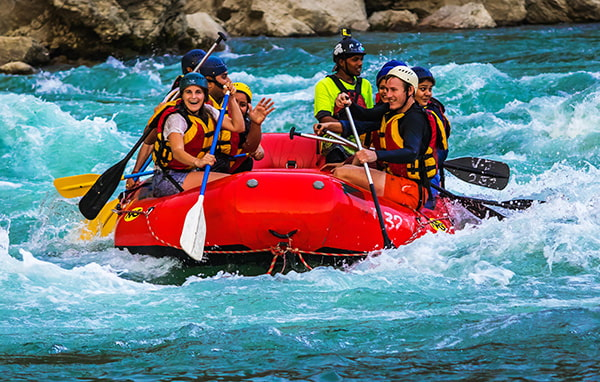
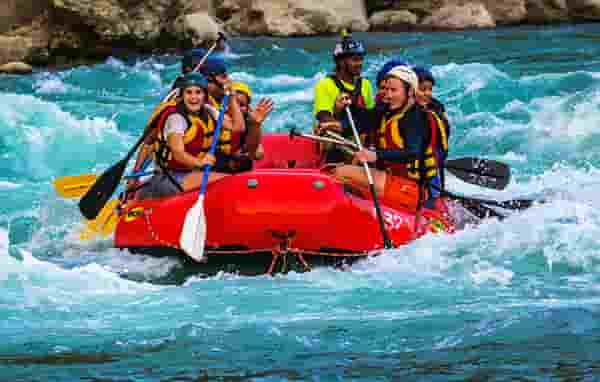
wwr rafting about us update

diff --git a/wwr/styles/rafting.css b/wwr/styles/rafting.css
@@ -39,14 +39,40 @@ article {
     padding: 8px;
 }
 
-/* Social Media Footer Links & Icons */
-.socialmedia a {
-    text-decoration: none;
+/* Header: CSS Grid Layout */
+header {
+    display: grid;
+    grid-template-columns: 150px 1fr;
+    align-items: center;
+    background-color: var(--primary-color);
+    padding: 12px 24px;
 }
 
-.socialmedia img {
-    width: 32px;
+header img {
+    width: 100px;
     height: auto;
+}
+
+/* Navigation: CSS Flex Layout */
+header nav {
+    display: flex;
+    justify-content: space-around;
+    align-items: center;
+    margin: 0;
+    padding: 0;
+}
+
+header nav a {
+    color: #ffffff;
+    text-decoration: none;
+    font-weight: bold;
+    padding: 8px 16px;
+    border-radius: 4px;
+}
+
+header nav a:hover {
+    background-color: var(--accent2-color);
+    color: var(--accent1-color);
 }
 
 /* Hero Section & Overlays */
@@ -66,7 +92,7 @@ article {
     width: 100%;
     padding: 16px;
     text-align: center;
-    opacity: 0.7;
+    opacity: 0.85;
     background-color: var(--accent1-color);
     color: #ffffff;
 }
@@ -78,11 +104,7 @@ article {
     right: 20px;
     background-color: var(--accent2-color);
     color: var(--accent1-color);
-    opacity: 0.9;
-}
-
-footer {
-    border-top: 3px solid var(--secondary-color);
+    opacity: 0.92;
 }
 
 .hero article img {
@@ -91,4 +113,95 @@ footer {
     margin-left: 16px;
     border: 2px solid var(--primary-color);
     box-shadow: 0 2px 6px rgba(0, 0, 0, 0.3);
+}
+
+/* History Section: 3-Column Wireframe Layout */
+.history h2 {
+    text-align: center;
+    margin-bottom: 16px;
+}
+
+.history-layout {
+    display: grid;
+    grid-template-columns: 1fr 220px 1fr;
+    gap: 16px;
+    align-items: center;
+}
+
+.history-layout p {
+    margin: 0;
+    padding: 0;
+}
+
+.history-layout img {
+    width: 100%;
+    height: auto;
+    border-radius: 4px;
+    border: 2px solid var(--primary-color);
+}
+
+/* Adventures Section: 5 Horizontal Figures */
+.adventures h2 {
+    text-align: center;
+    margin-bottom: 16px;
+}
+
+.adventure-grid {
+    display: grid;
+    grid-template-columns: repeat(5, 1fr);
+    gap: 12px;
+}
+
+.adventure-grid figure {
+    margin: 0;
+    text-align: center;
+}
+
+.adventure-grid img {
+    width: 100%;
+    height: 110px;
+    object-fit: cover;
+    border-radius: 4px;
+}
+
+.adventure-grid figcaption {
+    margin-top: 6px;
+    font-size: 0.85rem;
+    font-weight: bold;
+    color: var(--accent1-color);
+}
+
+/* Footer & Social Media Links */
+footer {
+    display: grid;
+    grid-template-columns: 1fr auto;
+    align-items: center;
+    background-color: var(--primary-color);
+    color: #ffffff;
+    border-top: 3px solid var(--secondary-color);
+    padding: 12px 24px;
+}
+
+footer p {
+    margin: 0;
+    padding: 0;
+    text-align: center;
+}
+
+.socialmedia {
+    display: flex;
+    gap: 12px;
+    justify-content: flex-end;
+    margin: 0;
+    padding: 0;
+}
+
+.socialmedia a {
+    text-decoration: none;
+}
+
+.socialmedia img {
+    width: 32px;
+    height: auto;
+    display: block;
 }

diff --git a/wwr/about.html b/wwr/about.html
@@ -31,13 +31,39 @@
             </article>
         </div>
 
-        <section>
+        <section class="history">
             <h2>History</h2>
-            <p>Founded in 1998 by a group of passionate river guides, White Water Rafting Co. started with two rafts and a dream to share the beauty of local canyons. Over the decades, we have guided thousands of families and thrill-seekers down class II to IV rapids.</p>
+            <div class="history-layout">
+                <p>Founded in 1998 by a group of passionate river guides, White Water Rafting Co. started with two rafts and a dream to share the beauty of local canyons.</p>
+                <img src="images/history.jpg" alt="Rafting team on the river">
+                <p>Over the decades, we have guided thousands of families and thrill-seekers down class II to IV rapids while maintaining our commitment to river conservation.</p>
+            </div>
         </section>
 
-        <section>
+        <section class="adventures">
             <h2>Adventure Awaits You!</h2>
+            <div class="adventure-grid">
+                <figure>
+                    <img src="images/adventure 1.jpg" alt="Los Dientes del Diablo rapid">
+                    <figcaption>Los Dientes del Diablo</figcaption>
+                </figure>
+                <figure>
+                    <img src="images/adventure 2.jpg" alt="Big Mallard rapid">
+                    <figcaption>Big Mallard</figcaption>
+                </figure>
+                <figure>
+                    <img src="images/adventure 3.jpg" alt="Half Day Adventure">
+                    <figcaption>Half Day Adventure</figcaption>
+                </figure>
+                <figure>
+                    <img src="images/adventure 4.jpg" alt="Rapid Rush">
+                    <figcaption>Rapid Rush</figcaption>
+                </figure>
+                <figure>
+                    <img src="images/adventure 5.jpg" alt="Canyon Run">
+                    <figcaption>Canyon Run</figcaption>
+                </figure>
+            </div>
         </section>
     </main>
 
